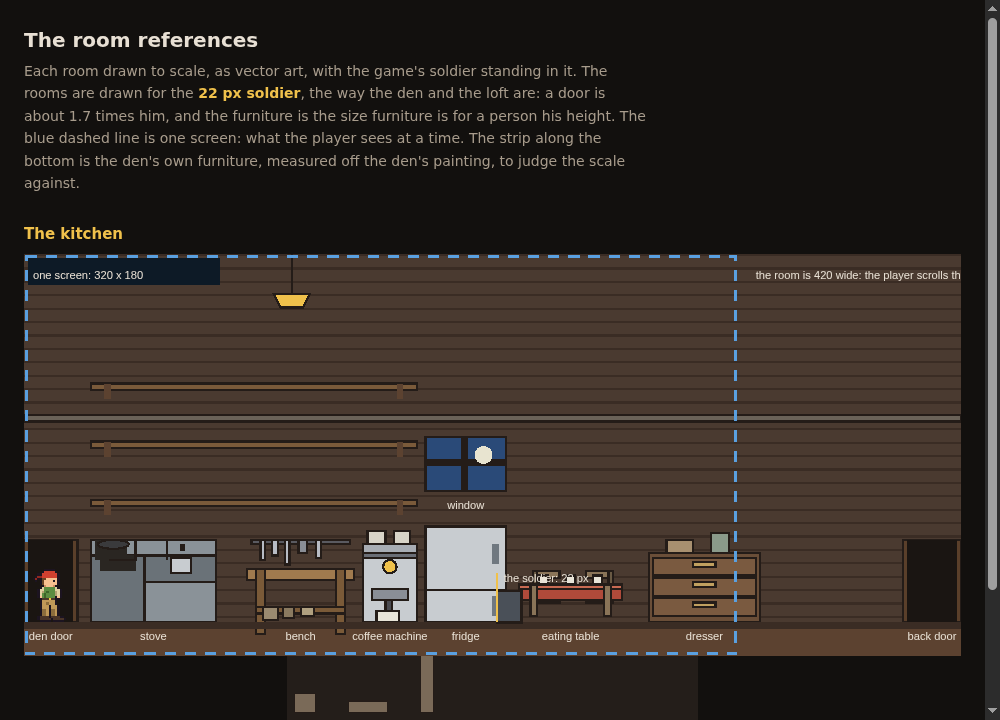
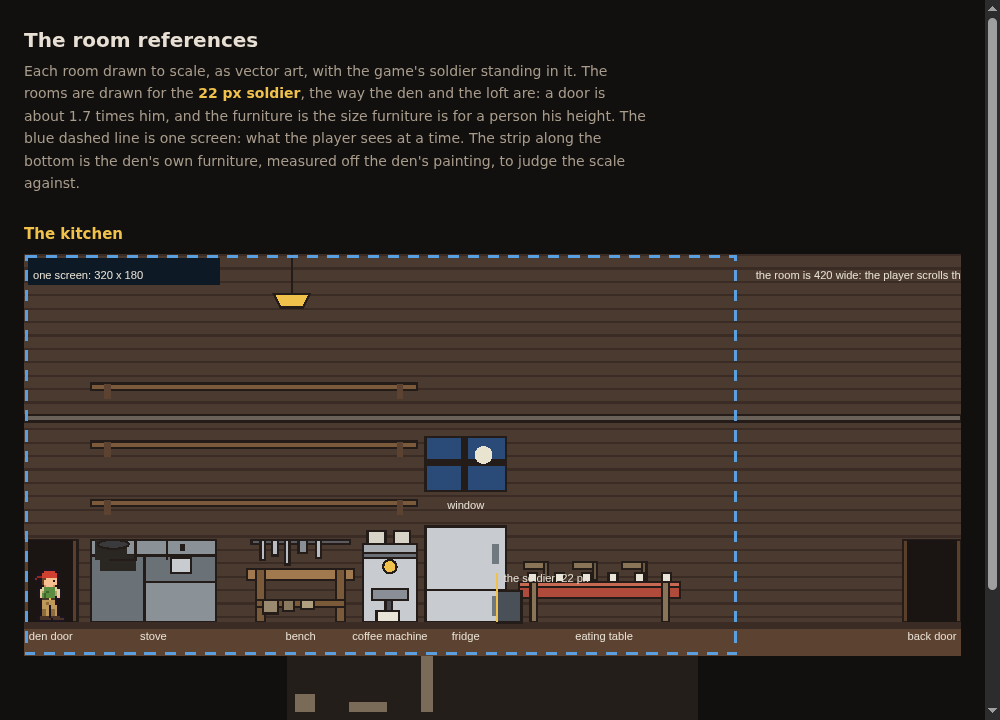
the kitchen's reference: a long dining table, and everything on the floor
The chest of drawers is gone and the eating table is long now, six chairs and six
coffee cups along a red cloth.

Every piece stands on the floor: the reference draws them from one floor line
rather than each from its own height, so the table isn't floating and the
stove, the bench, the coffee machine, the fridge and the table all sit level.

Changed region(s): [[0.527, 0.7333, 0.775, 0.8861], [0.248, 0.825, 0.341, 0.8861]]

diff --git a/docs/design/lobby/plates/ref-index.html b/docs/design/lobby/plates/ref-index.html
@@ -28,8 +28,8 @@ the player sees at a time. The strip along the bottom is the den's own
 furniture, measured off the den's painting, to judge the scale against.</p>
 
 <h2>The kitchen</h2>
-<div class="frame"><img class="ref" src="ref-kitchen.svg?v=15" alt="The kitchen, drawn to scale with the soldier in it"></div>
-<div class="frame"><img class="ref scale" src="ref-kitchen-scale.svg?v=15" alt="The den's own furniture, to judge the scale against"></div>
+<div class="frame"><img class="ref" src="ref-kitchen.svg?v=17" alt="The kitchen, drawn to scale with the soldier in it"></div>
+<div class="frame"><img class="ref scale" src="ref-kitchen-scale.svg?v=17" alt="The den's own furniture, to judge the scale against"></div>
 <p class="note">420 &times; 180 art pixels: wider than a screen, so the player
 scrolls through it as they walk. The soldier is 22 px tall, the fridge 43 px, the
 doors 37 px, the eating table's top below his waist. The strip below is the den's

diff --git a/tools/room_ref.py b/tools/room_ref.py
@@ -39,9 +39,8 @@ ROOMS = {
         ("bench", 100, 15, 148, 44),
         ("coffee machine", 152, 15, 176, 50),
         ("fridge", 180, 15, 216, 58),
-        ("eating table", 222, 15, 268, 44),
+        ("eating table", 222, 15, 298, 44),
         ("window", 180, 74, 216, 98),
-        ("dresser", 280, 15, 330, 46),
         ("back door", 394, 15, 420, 52),
     ], [(70, 30, 176), (96, 30, 176), (122, 30, 176)]),
 }
@@ -111,33 +110,37 @@ def soldier_svg(x, feet_y, canvas):
 
 
 # ---- the room's furniture, drawn as vector art ----
-# each is a function that takes the room's height and returns SVG
+# Every piece stands on the floor: its base is at FLOOR, the room's floor line.
+# The height is the room's, and the room's y is from its floor, so the floor line
+# is at h - 15 in the picture's own y.
+FLOOR_OFF = 15   # the floor's thickness: the room's floor line is this far up
+
+
+def base(h):
+    """The y of the floor line, in the picture's own y (from the top)."""
+    return h - FLOOR_OFF
+
+
 def stove(h):
+    """The stove and the worktop: the cooker on the left, the worktop beside it."""
+    f = base(h)
     return """
-<rect x="30" y="%(top)s" width="56" height="37" fill="#8a9298" stroke="#241c18"/>
-<rect x="30" y="%(cook)s" width="24" height="30" fill="#6a7278" stroke="#241c18"/>
+<rect x="30" y="%(top)s" width="56" height="%(bh)s" fill="#8a9298" stroke="#241c18"/>
+<rect x="30" y="%(cook)s" width="24" height="%(ch)s" fill="#6a7278" stroke="#241c18"/>
 <rect x="54" y="%(cook)s" width="32" height="12" fill="#6a7278" stroke="#241c18"/>
 <rect x="34" y="%(cook)s" width="16" height="7" fill="#2a2622"/>
-<rect x="32" y="%(top)s" width="14" height="9" fill="#2a2622"/>
-<path d="M38 %(top2)s h12 v-9 h14 v9" fill="none" stroke="#241c18" stroke-width="1"/>""" % {
-        "top": h - 52, "cook": h - 45, "top2": h - 43}
-
-
-def table(h):
-    return """
-<rect x="92" y="%(top)s" width="54" height="6" fill="#a07a4e" stroke="#241c18"/>
-<rect x="96" y="%(top)s" width="5" height="35" fill="#7a5a38" stroke="#241c18"/>
-<rect x="137" y="%(top)s" width="5" height="35" fill="#7a5a38" stroke="#241c18"/>
-<rect x="96" y="%(mid)s" width="46" height="4" fill="#7a5a38" stroke="#241c18"/>""" % {
-        "top": h - 44, "mid": h - 26}
+<rect x="32" y="%(hood)s" width="14" height="9" fill="#2a2622"/>
+<path d="M38 %(hood2)s h12 v-9 h14 v9" fill="none" stroke="#241c18" stroke-width="1"/>""" % {
+        "top": f - 37, "bh": 37, "cook": f - 30, "ch": 30, "hood": f - 37, "hood2": f - 28}
 
 
 def bench(h):
     """The cooking bench: a smaller top, a shelf under it, and utensils hanging."""
+    f = base(h)
     return """
 <rect x="100" y="%(top)s" width="48" height="5" fill="#a07a4e" stroke="#241c18"/>
-<rect x="104" y="%(top)s" width="4" height="29" fill="#7a5a38" stroke="#241c18"/>
-<rect x="140" y="%(top)s" width="4" height="29" fill="#7a5a38" stroke="#241c18"/>
+<rect x="104" y="%(top)s" width="4" height="%(lh)s" fill="#7a5a38" stroke="#241c18"/>
+<rect x="140" y="%(top)s" width="4" height="%(lh)s" fill="#7a5a38" stroke="#241c18"/>
 <rect x="104" y="%(shelf)s" width="40" height="3" fill="#7a5a38" stroke="#241c18"/>
 <rect x="107" y="%(shelf)s" width="7" height="6" fill="#9a8a70" stroke="#241c18"/>
 <rect x="116" y="%(shelf)s" width="5" height="5" fill="#8a7a60" stroke="#241c18"/>
@@ -149,13 +152,14 @@ def bench(h):
 <rect x="117" y="%(rail)s" width="2" height="11" fill="#b8bcc4" stroke="#241c18"/>
 <rect x="123" y="%(rail)s" width="4" height="6" fill="#8a8e96" stroke="#241c18"/>
 <rect x="131" y="%(rail)s" width="2" height="8" fill="#b8bcc4" stroke="#241c18"/>""" % {
-        "top": h - 39, "shelf": h - 22, "rail": h - 52}
+        "top": f - 24, "lh": 24, "shelf": f - 10, "rail": f - 37}
 
 
 def coffee_machine(h):
     """A fancy barista coffee machine: a tall body, a group head, a jug on top."""
+    f = base(h)
     return """
-<rect x="152" y="%(top)s" width="24" height="35" fill="#c8ccd0" stroke="#241c18"/>
+<rect x="152" y="%(top)s" width="24" height="%(bh)s" fill="#c8ccd0" stroke="#241c18"/>
 <rect x="152" y="%(top)s" width="24" height="6" fill="#a8adb4" stroke="#241c18"/>
 <circle cx="164" cy="%(dial)s" r="3" fill="#f0c14b" stroke="#241c18"/>
 <rect x="156" y="%(head)s" width="16" height="5" fill="#8a8e96" stroke="#241c18"/>
@@ -164,62 +168,69 @@ def coffee_machine(h):
 <rect x="154" y="%(jug)s" width="8" height="6" fill="#d8d4c8" stroke="#241c18"/>
 <rect x="166" y="%(jug)s" width="7" height="6" fill="#d8d4c8" stroke="#241c18"/>
 <rect x="152" y="%(gauge)s" width="24" height="2" fill="#6a6e76" stroke="#241c18"/>""" % {
-        "top": h - 50, "dial": h - 40, "head": h - 30, "spout": h - 25,
-        "cup": h - 20, "jug": h - 56, "gauge": h - 46}
+        "top": f - 35, "bh": 35, "dial": f - 25, "head": f - 15, "spout": f - 10,
+        "cup": f - 5, "jug": f - 41, "gauge": f - 31}
 
 
 def eating_table(h):
-    """A small eating table with a cloth on it, two chairs, and coffee cups.
-    Its top is below the soldier's waist: about 17 px off the floor."""
+    """A long dining table with a cloth on it, six chairs, and coffee cups.
+    Its top is below the soldier's waist: about 18 px off the floor."""
+    f = base(h)
+    chairs = ""
+    # three chairs behind the table, three in front of it
+    for cx in (224, 246, 268):
+        chairs += ('<rect x="%d" y="%g" width="11" height="3" fill="#8a7458" stroke="#241c18"/>\n'
+                   '<rect x="%d" y="%g" width="11" height="3" fill="#8a7458" stroke="#241c18"/>\n'
+                   '<rect x="%d" y="%g" width="2" height="8" fill="#6a5a44" stroke="#241c18"/>\n' % (
+                       cx, f - 18, cx, f - 27, cx + 9, f - 27))
+    cups = ""
+    for cx in (226, 238, 250, 262, 274, 286):
+        cups += '<rect x="%d" y="%g" width="4" height="4" fill="#e8e4d8" stroke="#241c18"/>' % (cx, f - 22)
     return """
 <!-- the chairs, behind the table -->
-<rect x="228" y="%(chair)s" width="12" height="3" fill="#8a7458" stroke="#241c18"/>
-<rect x="228" y="%(back)s" width="12" height="3" fill="#8a7458" stroke="#241c18"/>
-<rect x="252" y="%(chair)s" width="12" height="3" fill="#8a7458" stroke="#241c18"/>
-<rect x="252" y="%(back)s" width="12" height="3" fill="#8a7458" stroke="#241c18"/>
-<rect x="228" y="%(back)s" width="2" height="9" fill="#6a5a44" stroke="#241c18"/>
-<rect x="262" y="%(back)s" width="2" height="9" fill="#6a5a44" stroke="#241c18"/>
+%(chairs)s
 <!-- the table, with the cloth hanging over the front -->
-<rect x="222" y="%(top)s" width="46" height="4" fill="#b8a888" stroke="#241c18"/>
-<rect x="222" y="%(top)s" width="46" height="7" fill="#b04a3a" stroke="#241c18"/>
-<rect x="222" y="%(top)s" width="46" height="2" fill="#c86a52" stroke="#241c18"/>
-<rect x="227" y="%(top)s" width="3" height="14" fill="#8a7458" stroke="#241c18"/>
-<rect x="260" y="%(top)s" width="3" height="14" fill="#8a7458" stroke="#241c18"/>
+<rect x="222" y="%(top)s" width="72" height="4" fill="#b8a888" stroke="#241c18"/>
+<rect x="222" y="%(top)s" width="72" height="7" fill="#b04a3a" stroke="#241c18"/>
+<rect x="222" y="%(top)s" width="72" height="2" fill="#c86a52" stroke="#241c18"/>
+<rect x="227" y="%(top)s" width="3" height="%(lh)s" fill="#8a7458" stroke="#241c18"/>
+<rect x="286" y="%(top)s" width="3" height="%(lh)s" fill="#8a7458" stroke="#241c18"/>
 <!-- the coffee cups, on the table -->
-<rect x="231" y="%(cup)s" width="4" height="4" fill="#e8e4d8" stroke="#241c18"/>
-<rect x="243" y="%(cup)s" width="4" height="4" fill="#e8e4d8" stroke="#241c18"/>
-<rect x="255" y="%(cup)s" width="4" height="4" fill="#e8e4d8" stroke="#241c18"/>""" % {
-        "top": h - 32, "cup": h - 36, "chair": h - 27, "back": h - 38}
+%(cups)s""" % {"chairs": chairs, "cups": cups, "top": f - 18, "lh": 18}
 
 
 def fridge(h):
+    f = base(h)
     return """
 <rect x="180" y="%(top)s" width="36" height="43" fill="#c8ccd0" stroke="#241c18"/>
 <rect x="180" y="%(split)s" width="36" height="1" fill="#241c18"/>
 <rect x="210" y="%(h1)s" width="3" height="9" fill="#707880"/>
 <rect x="210" y="%(h2)s" width="3" height="9" fill="#707880"/>""" % {
-        "top": h - 58, "split": h - 30, "h1": h - 50, "h2": h - 27}
+        "top": f - 43, "split": f - 15, "h1": f - 35, "h2": f - 12}
 
 
 def window_(h):
+    f = base(h)
     return """
 <rect x="180" y="%(top)s" width="36" height="24" fill="#2a4a78" stroke="#241c18"/>
 <rect x="196" y="%(top)s" width="3" height="24" fill="#241c18"/>
 <rect x="180" y="%(mid)s" width="36" height="3" fill="#241c18"/>
 <circle cx="206" cy="%(moon)s" r="4" fill="#e8e4d0"/>""" % {
-        "top": h - 98, "mid": h - 88, "moon": h - 90}
+        "top": f - 83, "mid": f - 73, "moon": f - 75}
 
 
 def door(x0, x1, h):
     # the door's opening, in the room's own y (from the floor)
+    f = base(h)
     return """
 <rect x="%g" y="%d" width="%g" height="37" fill="#5a3f2a" stroke="#241c18"/>
 <rect x="%g" y="%d" width="%g" height="37" fill="#1a1512"/>""" % (
-        x0, h - 52, x1 - x0, x0 + 2, h - 52, x1 - x0 - 4)
+        x0, f - 37, x1 - x0, x0 + 2, f - 37, x1 - x0 - 4)
 
 
 def dresser(h):
     """A chest of drawers, with a couple of things on top."""
+    f = base(h)
     return """
 <rect x="280" y="%(top)s" width="50" height="31" fill="#6a4e38" stroke="#241c18"/>
 <rect x="282" y="%(d1)s" width="46" height="8" fill="#7a5a40" stroke="#241c18"/>
@@ -231,14 +242,13 @@ def dresser(h):
 <!-- a bowl and a jug on top -->
 <rect x="288" y="%(bowl)s" width="12" height="6" fill="#a89070" stroke="#241c18"/>
 <rect x="308" y="%(jug)s" width="8" height="9" fill="#8a9a8a" stroke="#241c18"/>""" % {
-        "top": h - 46, "d1": h - 44, "d2": h - 35, "d3": h - 26,
-        "h1": h - 42, "h2": h - 33, "h3": h - 24, "bowl": h - 52, "jug": h - 55}
+        "top": f - 31, "d1": f - 29, "d2": f - 20, "d3": f - 11,
+        "h1": f - 27, "h2": f - 18, "h3": f - 9, "bowl": f - 37, "jug": f - 40}
 
 
 FURNITURE = {
-    "stove": stove, "table": table, "fridge": fridge, "window": window_,
+    "stove": stove, "fridge": fridge, "window": window_,
     "bench": bench, "coffee machine": coffee_machine, "eating table": eating_table,
-    "dresser": dresser,
 }
 
 
